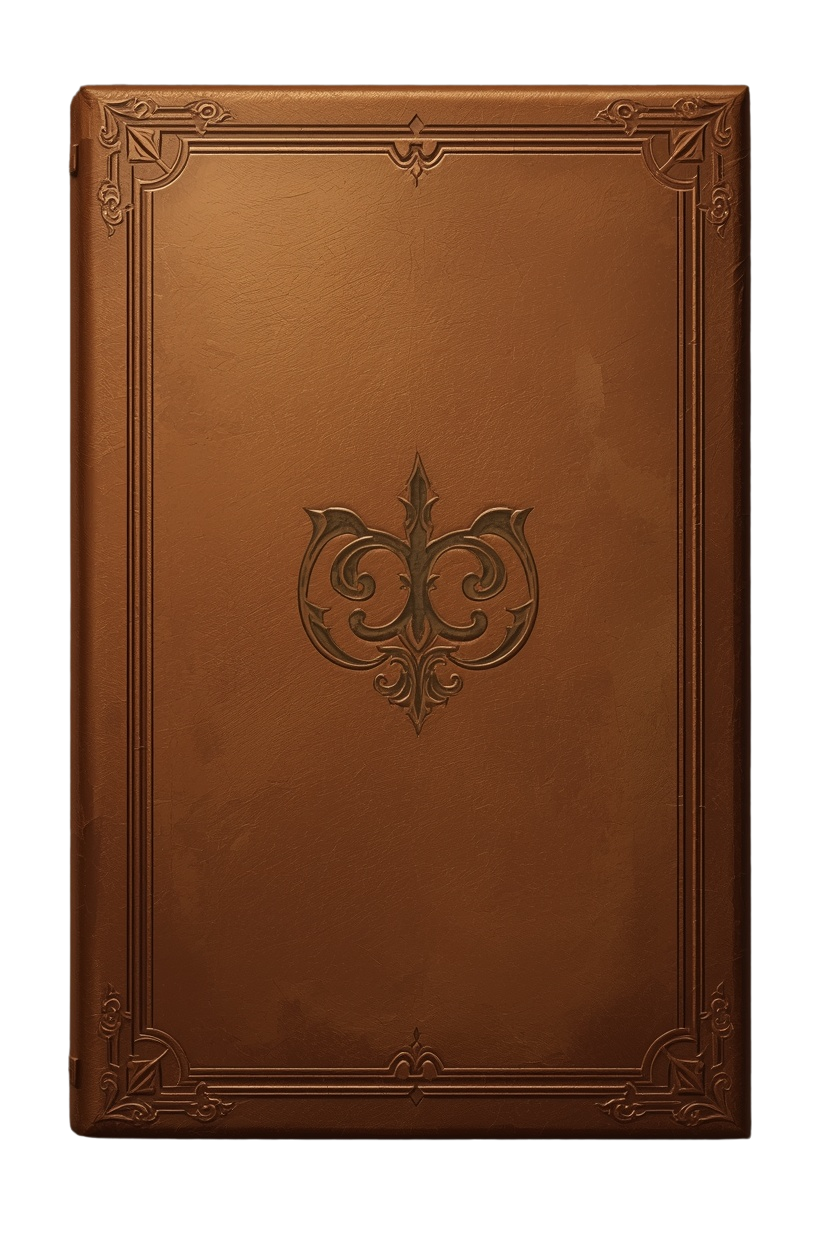
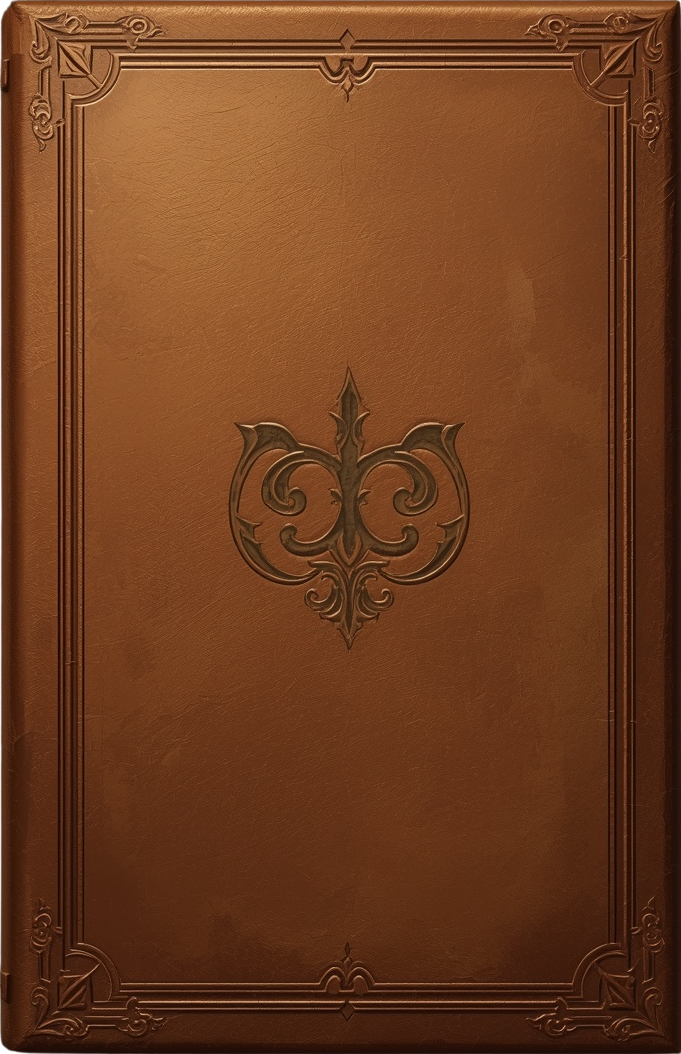
fix: slide the cover into its spread slot instead of stretching it
The previous opening animation grew the wrap's width in place while
react-pageflip was still in single-page mode, so the cover image itself
stretched to fill the growing box before snapping down once the library
caught up — very visible after the cover art was resized. Replaced with a
pure translateX slide at a constant width: the cover keeps its size the
whole time and only changes position, landing exactly in the spread's
right-page slot (the single-page width is now defined as exactly half the
double-page width so the math lines up with no jump).

Also fixes a stale-closure bug where the flip queue kept reading the
pre-update isCoverWidth state right after setting it, causing an extra
spurious slide and stalling the queue under rapid clicks (tracked via a
ref now), and drops a redundant duplicate resize dispatch per transition.

diff --git a/src/pages/Lore.tsx b/src/pages/Lore.tsx
@@ -158,9 +158,17 @@ const Lore = () => {
 	// droite qu'on avait avec la largeur double-page par défaut. Séparé de
 	// l'index de page réel (qu'on n'a par ailleurs besoin de connaître nulle
 	// part ici) pour pouvoir le faire passer à false AVANT le flip qui
-	// quitte la couverture, le temps de l'animation d'agrandissement
-	// ci-dessous (growToSpread).
+	// quitte la couverture, le temps de l'animation de glissement
+	// ci-dessous (slideToSpreadSlot). Doublé d'une ref (isCoverWidthRef) qui
+	// porte la même valeur : processFlipQueue est rappelée via
+	// `setTimeout(processFlipQueue, 0)` juste après avoir déclenché ce
+	// setState, donc DANS LA MÊME passe — la closure de processFlipQueue
+	// capturée à ce rendu-là lirait encore l'ANCIENNE valeur de isCoverWidth
+	// (React ne la met à jour qu'au rendu suivant), ce qui relançait un
+	// second glissement pour rien et bloquait la file dès le clic suivant.
+	// Une ref n'a pas ce problème, elle est toujours à jour.
 	const [isCoverWidth, setIsCoverWidth] = useState(true);
+	const isCoverWidthRef = useRef(true);
 	const flipBookRef = useRef<FlipBookHandle | null>(null);
 	// react-pageflip/StPageFlip ne met pas en file les clics reçus pendant une
 	// animation en cours : un clic pendant un flip annule/retasse l'animation
@@ -179,53 +187,55 @@ const Lore = () => {
 		audio.play().catch(() => {});
 	};
 
-	// Largeur "double page" du wrap une fois le livre ouvert, dupliquée en JS
-	// depuis la formule CSS de .lore-book-wrap (Lore.css) — motion anime une
-	// valeur numérique, pas un min()/calc() CSS, donc il faut la même borne
-	// ici pour que l'animation d'ouverture vise exactement la largeur que la
-	// CSS appliquera ensuite (sans ça, un petit saut au relâchement de
-	// l'inline style posé par motion). À tenir synchronisée si ces valeurs
-	// changent là-bas.
-	const spreadWidthPx = () =>
-		Math.min(1105, window.innerWidth * 0.92, (window.innerHeight - 48) * 1.64);
-
-	// Anime l'élargissement du wrap (couverture seule -> place du livre
-	// ouvert) avec motion, puis prévient react-pageflip (qui ne remesure que
-	// sur l'évènement window "resize", voir plus bas) avant d'appeler
-	// `onDone` — qui déclenche à son tour le vrai tournage de page. Tant que
-	// cette promesse n'est pas résolue, le tournage de page n'a donc pas
-	// encore lieu : c'est `processFlipQueue` ci-dessous qui orchestre cet
-	// ordre, pas celui-ci.
-	const growToSpread = (onDone: () => void) => {
+	// Glisse le wrap vers sa place de page droite dans le spread, PUIS bascule
+	// en largeur double page, AVANT que le tournage ne commence — remplace
+	// une première version qui animait la LARGEUR (couverture seule -> place
+	// ouverte) : tant que react-pageflip ignore encore qu'il doit passer en
+	// double page (il ne remesure que sur l'évènement window "resize", voir
+	// plus bas), la seule page qu'il affiche occupe TOUTE la largeur du wrap
+	// — donc en l'étirant en direct jusqu'à la largeur double page, c'est la
+	// couverture elle-même qui s'étirait/se déformait en grandissant, avant
+	// de se rétrécir d'un coup une fois le resize pris en compte. Un
+	// déplacement pur (translateX) ne redimensionne jamais rien : la
+	// couverture garde sa taille du début à la fin, elle change juste de
+	// position — exactement ce que ferait un vrai livre qu'on pousse vers sa
+	// place avant de l'ouvrir.
+	//
+	// Le calcul qui rend ça exact sans aucun saut au relâchement : la
+	// largeur de .lore-book-wrap--cover (Lore.css) est TOUJOURS exactement
+	// la moitié de celle de .lore-book-wrap en double page (mêmes bornes
+	// divisées par deux, à tenir synchronisé si l'une des deux change). Avec
+	// PW cette largeur couverture, décaler le wrap de +PW/2 place donc son
+	// bord droit exactement là où tombera le bord droit de la page de
+	// droite une fois le wrap repassé à 2×PW (centré, donc bordé par
+	// [centre-PW, centre+PW]) : le glissement amène la couverture pile dans
+	// la moitié droite de cette future largeur, bord à bord.
+	const slideToSpreadSlot = (onDone: () => void) => {
 		const el = wrapRef.current;
 		if (!el) {
 			onDone();
 			return;
 		}
-		if (prefersReducedMotion) {
+		const commitSpread = () => {
+			isCoverWidthRef.current = false;
 			setIsCoverWidth(false);
-			window.dispatchEvent(new Event("resize"));
-			onDone();
+			// La classe --cover retirée au prochain rendu passe le wrap à sa
+			// largeur double page, centrée — ce qui replace pile la moitié
+			// droite (où vit la couverture) à l'endroit que le glissement
+			// venait de rejoindre (voir le calcul ci-dessus) : effacer la
+			// translation ici ne produit donc aucun saut visible.
+			requestAnimationFrame(() => {
+				el.style.transform = "";
+				window.dispatchEvent(new Event("resize"));
+				onDone();
+			});
+		};
+		if (prefersReducedMotion) {
+			commitSpread();
 			return;
 		}
-		const from = el.getBoundingClientRect().width;
-		const to = spreadWidthPx();
-		animate(el, { width: [`${from}px`, `${to}px`] }, { duration: 0.45, ease: "easeInOut" }).then(
-			() => {
-				setIsCoverWidth(false);
-				// La classe --cover retirée au prochain rendu retombera sur
-				// exactement cette même largeur (voir spreadWidthPx ci-dessus) :
-				// effacer l'inline style posé par motion ne provoque donc aucun
-				// saut, et évite de le laisser figé devant un futur
-				// redimensionnement de fenêtre (la CSS ne peut jamais reprendre
-				// la main sur un inline style laissé en place).
-				requestAnimationFrame(() => {
-					el.style.width = "";
-					window.dispatchEvent(new Event("resize"));
-					onDone();
-				});
-			},
-		);
+		const shift = el.getBoundingClientRect().width / 2;
+		animate(el, { x: [0, shift] }, { duration: 0.4, ease: "easeInOut" }).then(commitSpread);
 	};
 
 	const processFlipQueue = () => {
@@ -235,14 +245,14 @@ const Lore = () => {
 		const pageFlip = flipBookRef.current?.pageFlip();
 		if (!pageFlip) return;
 		isFlipBusyRef.current = true;
-		if (isCoverWidth && next === "next") {
+		if (isCoverWidthRef.current && next === "next") {
 			// Premier clic : on quitte la couverture. Le livre doit avoir
-			// fini de s'agrandir à sa place ouverte avant que la page ne
+			// fini de glisser à sa place ouverte avant que la page ne
 			// tourne (demande explicite) — isFlipBusyRef reste à true tout
 			// ce temps, donc les clics suivants s'empilent dans la file sans
 			// rien déclencher (voir enqueueFlip) au lieu de faire buguer
 			// l'animation en cours.
-			growToSpread(() => {
+			slideToSpreadSlot(() => {
 				playPageTurnSound();
 				pageFlip.flipNext();
 			});
@@ -267,7 +277,7 @@ const Lore = () => {
 	// onFlip se déclenche dès le DÉBUT du tournage, pas à la fin — passer
 	// isCoverWidth (donc rétrécir .lore-book-wrap) à ce moment-là
 	// redimensionnerait le livre PENDANT l'animation de la page. En
-	// ouverture, growToSpread s'en charge déjà AVANT le flip (voir plus
+	// ouverture, slideToSpreadSlot s'en charge déjà AVANT le flip (voir plus
 	// haut) ; il ne reste donc à gérer ici que la fermeture (retour à la
 	// couverture), rétrécie une fois le tournage retour bien terminé — pas
 	// encore animée avec motion, seule l'ouverture a été demandée.
@@ -280,7 +290,21 @@ const Lore = () => {
 		setIsFlipping(e.data === "flipping");
 		if (e.data === "read") {
 			isFlipBusyRef.current = false;
+			const wasCover = isCoverWidthRef.current;
+			isCoverWidthRef.current = pendingIsCoverRef.current;
 			setIsCoverWidth(pendingIsCoverRef.current);
+			// Fermeture (retour à la couverture) : prévenir react-pageflip du
+			// rétrécissement, comme slideToSpreadSlot le fait déjà pour
+			// l'ouverture — un seul dispatch par transition (voir le
+			// commentaire détaillé plus bas, sur l'ancien useEffect générique
+			// qui en posait un second à chaque fois : la rafale de resizes
+			// qui en résultait sous clics répétés finissait par corrompre
+			// l'état interne de la librairie, react-pageflip se mettant à
+			// cloner ses pages en double — symptôme observé : l'avertissement
+			// React "two children with the same key").
+			if (!wasCover && pendingIsCoverRef.current) {
+				requestAnimationFrame(() => window.dispatchEvent(new Event("resize")));
+			}
 			// Rappeler flipNext()/flipPrev() de façon SYNCHRONE depuis ce
 			// handler (donc depuis l'intérieur du traitement interne de
 			// StPageFlip de la fin du flip précédent) fait résoudre le flip
@@ -312,21 +336,6 @@ const Lore = () => {
 		const w = wrapRef.current?.getBoundingClientRect().width;
 		if (w) setPageWidthPx(isPortraitRef.current ? w : w / 2);
 	};
-
-	// page-flip (le moteur sous react-pageflip) ne remesure son conteneur
-	// que sur l'évènement window "resize" — pas de ResizeObserver, vérifié
-	// dans node_modules/page-flip/dist/js/page-flip.module.js. Un
-	// changement de largeur purement CSS (.lore-book-wrap--cover ajoutée/
-	// retirée selon isCoverWidth, voir plus bas) ne le fait donc jamais
-	// rebasculer tout seul entre page unique et double page. Couvre ici la
-	// fermeture (rétrécissement instantané, pas encore animé) ; l'ouverture
-	// anime d'abord la largeur et dispatche elle-même son propre resize une
-	// fois l'animation terminée (growToSpread ci-dessus), avant même que ce
-	// useEffect n'ait eu la main — le doublon qui en résulte est inoffensif.
-	useEffect(() => {
-		const id = requestAnimationFrame(() => window.dispatchEvent(new Event("resize")));
-		return () => cancelAnimationFrame(id);
-	}, [isCoverWidth]);
 
 	if (!opened) {
 		return (

diff --git a/src/pages/Lore.css b/src/pages/Lore.css
@@ -184,14 +184,22 @@
 	   avec `transition: width 0.3s` ici). Le saut est donc volontairement
 	   instantané. */
 }
-/* Tant que seule la couverture est visible (currentPage === 0, voir
-   Lore.tsx), le livre n'a qu'une page réelle à montrer : une largeur bien
-   sous le seuil recto/verso de la librairie (minWidth*2 = 760px, voir le
+/* Tant que seule la couverture est visible (isCoverWidth, voir Lore.tsx),
+   le livre n'a qu'une page réelle à montrer : une largeur bien sous le
+   seuil recto/verso de la librairie (minWidth*2 = 760px, voir le
    commentaire sur <HTMLFlipBook>) la fait basculer elle-même en page
    unique centrée, au lieu du spread page-vierge/couverture décalé à droite
-   qu'on avait avec la largeur double-page ci-dessus. */
+   qu'on avait avec la largeur double-page ci-dessus.
+   Chaque terme du min() est ici VOLONTAIREMENT la moitié exacte du terme
+   correspondant de .lore-book-wrap ci-dessus (1105/2, 92vw/2, 0.82 = 1.64/2
+   déjà partagé) : cette largeur doit toujours rester exactement la moitié
+   de la largeur double-page, c'est ce qui permet à l'animation d'ouverture
+   (Lore.tsx, slideToSpreadSlot) de ne faire glisser le wrap que d'un demi
+   de sa propre largeur pour l'amener pile dans la moitié droite de la
+   largeur double-page, sans aucun redimensionnement ni saut. Modifier une
+   des deux règles sans l'autre casse ce calcul. */
 .lore-book-wrap.lore-book-wrap--cover {
-	width: min(620px, 90vw, calc((100vh - 48px) * 0.82));
+	width: min(552.5px, 46vw, calc((100vh - 48px) * 0.82));
 }
 
 .lore-flipbook {
